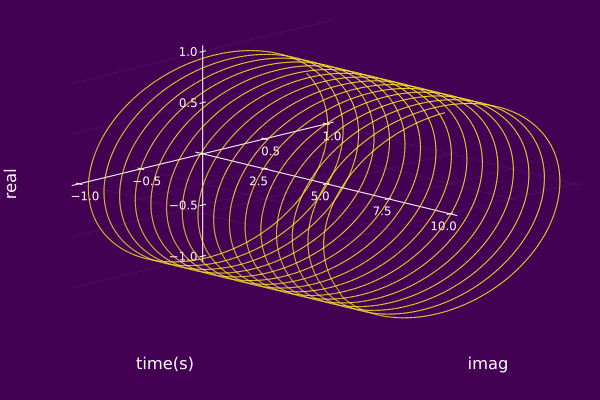
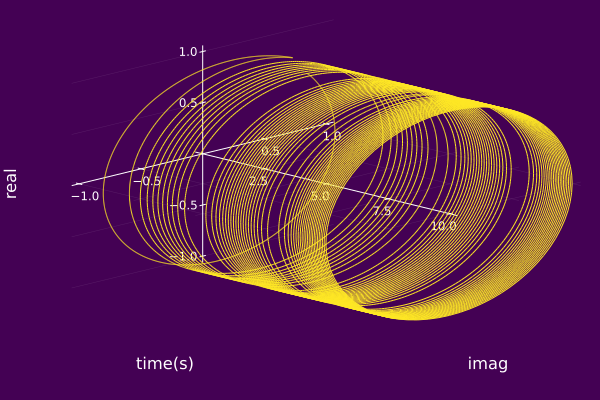
update doc3

Changed region(s): [[0.15, 0.12, 0.96, 0.81]]

diff --git a/docs/src/recipes.md b/docs/src/recipes.md
@@ -40,7 +40,7 @@ plot!( camera=(0,90),
 ## Instantaneous Spectra
 An [Instantaneous Spectrum](https://web.nmsu.edu/~spsandov/ISA/literature.html#openModal1) allows visualization of multiple aspects of the signal model simultaneously, including both magnitude and phase of each signal component. While it may take some time to become comfortable with the 3D visualization, we believe it has significant advantages in terms of interpretability over other time-frequency visualizations.
 
-We can visualize a 3D IS using the pre-defined plotting recipes as follows. First, define a **component set**, then  call `plot()` from [`Plots.jl`](http://docs.juliaplots.org/latest/)  along with a time range.
+We can visualize a 3D IS using the pre-defined plotting recipes as follows. First, define a component set, then  call `plot()` from [`Plots.jl`](http://docs.juliaplots.org/latest/)  along with a time range.
 ### Example
 For a this choice of parameters of the component set, we have the following Argand Diagram for $z(t;\mathscr{S})$, 3D IS $\mathcal{S}(t,\omega,s;\mathscr{S})$, and 2D IS $\mathcal{S}(t,\omega;\mathscr{S})$.
 

diff --git a/docs/src/basicComponents/FM.md b/docs/src/basicComponents/FM.md
@@ -93,7 +93,7 @@ For another choice of parameters of the canonical triplet, we have the following
 
 ```julia
 using ISA, Plots
-𝐶₀ = AMFMtriplet(t->1,t->10+t*cos(10t),1.0)
+𝐶₀ = AMFMtriplet(t->1,t->10t*cos(t),1.0)
 ψ₀ = AMFMcomp(𝐶₀)
 plot(ψ₀; timeaxis=0.0:0.001:10.0)
 ```
@@ -101,7 +101,7 @@ plot(ψ₀; timeaxis=0.0:0.001:10.0)
 
 ```julia
 using ISA, Plots
-𝐶₀ = AMFMtriplet(t->1,t->10+t*cos(10t),1.0)
+𝐶₀ = AMFMtriplet(t->1,t->10t*cos(t),1.0)
 ψ₀ = AMFMcomp(𝐶₀)
 plot(𝐶₀; timeaxis=0.0:0.001:10.0)
 ```
@@ -109,7 +109,7 @@ plot(𝐶₀; timeaxis=0.0:0.001:10.0)
 
 ```julia
 using ISA, Plots
-𝐶₀ = AMFMtriplet(t->1,t->10+t*cos(10t),1.0)
+𝐶₀ = AMFMtriplet(t->1,t->10t*cos(t),1.0)
 ψ₀ = AMFMcomp(𝐶₀)
 plot(𝐶₀; timeaxis=0.0:0.001:10.0)
 plot!( camera=(0,90),
